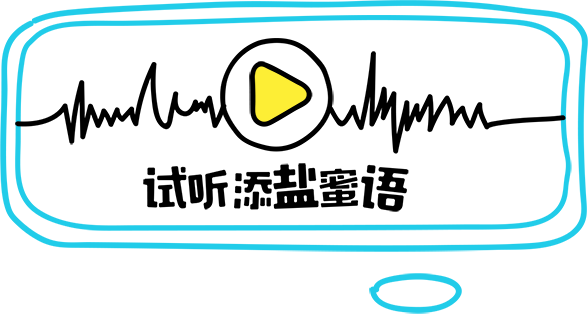
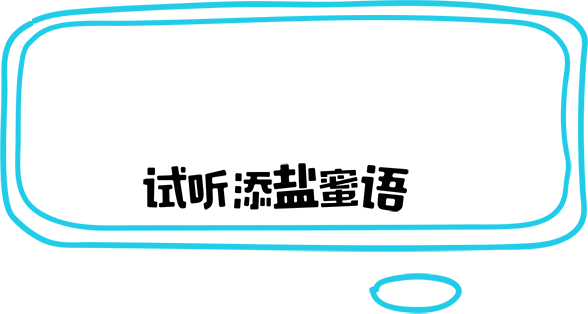
动画更新

Changed region(s): [[0.0306, 0.1146, 0.9796, 0.4873]]

diff --git a/咸柠帮你说情话/style/main.min.css b/咸柠帮你说情话/style/main.min.css
@@ -1,1 +1,1 @@
-html,body,ul,ol,li,dl,dt,dd,p,h1,h2,h3,h4,h5,h6{padding:0;margin:0;}ul,ol{list-style:none;}*{box-sizing:border-box;}img{border:0;}@media screen and (orientation:portrait){.block{display:none;}}@media screen and (orientation:landscape){.block{z-index:9999;position:absolute;top:0;left:0;width:100%;height:100%;background:#333;color:#fff;text-align:center;line-height:100vh;font-size:20vh;}}html,body{width:100%;height:100%;font-family:'Miscrosoft Yahei','微软雅黑';font-size:14px;overflow:hidden;background-color:#fff;}body{background-image:url(../img/main/bg.jpg);background-size:100% auto;background-repeat:no-repeat;}body>.audio{display:none;}.loading{width:100%;height:100%;position:absolute;top:0;left:0;text-align:center;color:#333;line-height:90vh;z-index:99;}.swiper-container{width:100%;height:100%;}.scene01 .s1{width:581px;height:362px;position:absolute;top:207px;left:24px;background-image:url(../img/scene01/info-bg.png);background-repeat:no-repeat;background-size:contain;}.scene01 .s2{width:500px;height:235px;position:absolute;top:288px;left:60px;background-image:url(../img/scene01/info-words.png);background-repeat:no-repeat;background-size:contain;}.scene01 .button{width:426px;height:129px;position:absolute;top:728px;left:99px;background-image:url(../img/scene01/button-next.png);background-repeat:no-repeat;background-size:contain;}.scene01 .s4{width:196px;height:123px;position:absolute;top:588px;left:104px;background-image:url(../img/scene01/bubble-dashan.png);background-repeat:no-repeat;background-size:contain;}.scene01 .s5{position:absolute;width:213px;height:124px;top:588px;right:95px;background-image:url(../img/scene01/bubble-biaobai.png);background-repeat:no-repeat;background-size:contain;}.scene01 .two{position:absolute;width:304px;height:203px;top:108px;right:60px;background-image:url(../img/scene01/two.png);background-repeat:no-repeat;background-size:contain;transform-origin:right top;display:none;}.scene02 .xianqige{width:199px;height:289px;position:absolute;top:427px;left:72px;transform-origin:0 0 0;background-image:url(../img/scene02/xianqige.png);background-repeat:no-repeat;background-size:contain;}.scene02 .mengxiaomei{position:absolute;width:156px;height:234px;top:485px;right:102px;background-image:url(../img/scene02/mengxiaomei.png);background-repeat:no-repeat;background-size:contain;transform-origin:right top;}.scene02 .btn-xianqige{width:258px;height:111px;position:absolute;top:748px;left:53px;background-image:url(../img/scene02/button-boy.png);background-repeat:no-repeat;background-size:contain;}.scene02 .btn-mengxiaomei{position:absolute;width:265px;height:111px;top:748px;right:45px;background-image:url(../img/scene02/button-girl.png);background-repeat:no-repeat;background-size:contain;}.scene02 .s5{width:544px;height:366px;position:absolute;top:125px;left:48px;background-image:url(../img/scene02/info-bg.png);background-repeat:no-repeat;background-size:contain;}.scene02 .s6{width:444px;height:159px;position:absolute;top:179px;left:96px;background-image:url(../img/scene02/info-words.png);background-repeat:no-repeat;background-size:contain;}.scene03 .xianqige{width:232px;height:260px;position:absolute;top:101px;left:64px;background-image:url(../img/scene03/xianqige.png);background-repeat:no-repeat;transform-origin:0 0 0;}.scene03 .xianqige-words{position:absolute;width:301px;height:134px;top:184px;right:59px;background-image:url(../img/scene03/xianqige-words.png);background-repeat:no-repeat;background-size:contain;}.scene03 .mengxiaomei{width:202px;height:234px;position:absolute;top:117px;left:80px;background-image:url(../img/scene03/mengxiaomei.png);background-repeat:no-repeat;transform-origin:0 0 0;}.scene03 .mengxiaomei-words{position:absolute;width:296px;height:139px;top:172px;right:56px;background-image:url(../img/scene03/mengxiaomei-words.png);background-repeat:no-repeat;background-size:contain;}.scene03 .s5{width:534px;height:229px;position:absolute;top:382px;left:50px;background-image:url(../img/scene03/input-bg.png);background-repeat:no-repeat;background-size:contain;padding:18px;}.scene03 .s5 textarea{width:100%;height:100%;text-align:left;border:none;background:none;font-size:16px;line-height:16px;outline:none;}.scene03 .button{width:416px;height:109px;position:absolute;top:749px;left:113px;background-image:url(../img/scene03/button.png);background-repeat:no-repeat;background-size:contain;}.scene03 .mask{width:100%;height:100%;position:absolute;top:0;left:0;z-index:1;background-color:rgba(0,0,0,.8);text-align:center;display:none;}.scene03 .mask .loading{width:244px;height:222px;position:absolute;top:415px;left:200px;background-image:url(../img/scene04/mengxiaomei.png);background-repeat:no-repeat;transform-origin:0 0 0;}.scene04 .audio{width:588px;height:314px;position:absolute;top:123px;left:27px;background-image:url(../img/scene04/audio.png);background-repeat:no-repeat;background-size:contain;}.scene04 .xianqige{width:364px;height:327px;position:absolute;top:381px;left:143px;background-image:url(../img/scene04/xianqige.png);background-repeat:no-repeat;transform-origin:0 0 0;}.scene04 .mengxiaomei{width:244px;height:222px;position:absolute;top:415px;left:200px;background-image:url(../img/scene04/mengxiaomei.png);background-repeat:no-repeat;transform-origin:0 0 0;}.scene04 .btn-retry{width:229px;height:114px;position:absolute;top:742px;left:74px;background-image:url(../img/scene04/button-retry.png);background-repeat:no-repeat;background-size:contain;}.scene04 .btn-share{position:absolute;width:229px;height:114px;top:742px;right:74px;background-image:url(../img/scene04/button-share.png);background-repeat:no-repeat;background-size:contain;}.scene04 .share{width:100%;height:100%;position:absolute;top:0;left:0;z-index:1;background-color:rgba(0,0,0,.8);text-align:center;display:none;}.scene04 .share .share-words{width:266px;height:217px;position:absolute;top:83px;left:68px;background-image:url(../img/scene04/share.png);background-repeat:no-repeat;background-size:contain;}.scene04 .share .two{width:428px;height:303px;position:absolute;top:180px;left:108px;background-image:url(../img/scene04/two.png);background-repeat:no-repeat;background-size:contain;transform-origin:0;}.scene04 .share .light{position:absolute;width:600px;height:600px;top:0;right:0;background-image:url(../img/scene04/light.png);background-repeat:no-repeat;transform-origin:right top;}.scene05 .s1{width:593px;height:440px;position:absolute;top:45px;left:28px;background-image:url(../img/scene05/finished.png);background-repeat:no-repeat;background-size:contain;}.scene05 .xianqige{width:640px;height:308px;position:absolute;top:450px;left:0;background-image:url(../img/scene05/walk.png);background-repeat:no-repeat;background-size:contain;transform-origin:0;display:none;}.scene05 .mengxiaomei{position:absolute;width:156px;height:181px;top:562px;right:72px;background-image:url(../img/scene05/mengxiaomei.png);background-repeat:no-repeat;transform-origin:right top;background-size:contain;}.scene06>div{text-align:center;}.scene06 .s1 img{margin-top:20vh;width:35%;}.scene06 .s2 img{margin-top:5vh;width:80%;}.scene06 .s3 img{margin-top:5vh;width:40%;}
+html,body,ul,ol,li,dl,dt,dd,p,h1,h2,h3,h4,h5,h6{padding:0;margin:0;}ul,ol{list-style:none;}*{box-sizing:border-box;}img{border:0;}@media screen and (orientation:portrait){.block{display:none;}}@media screen and (orientation:landscape){.block{z-index:9999;position:absolute;top:0;left:0;width:100%;height:100%;background:#333;color:#fff;text-align:center;line-height:100vh;font-size:20vh;}}html,body{width:100%;height:100%;font-family:'Miscrosoft Yahei','微软雅黑';font-size:14px;overflow:hidden;background-color:#fff;}body{background-image:url(../img/main/bg.jpg);background-size:100% auto;background-repeat:no-repeat;}body>.audio{display:none;}.loading{width:100%;height:100%;position:absolute;top:0;left:0;text-align:center;color:#333;line-height:90vh;z-index:99;}.swiper-container{width:100%;height:100%;}.scene01 .s1{width:581px;height:362px;position:absolute;top:207px;left:24px;background-image:url(../img/scene01/info-bg.png);background-repeat:no-repeat;background-size:contain;}.scene01 .s2{width:500px;height:235px;position:absolute;top:288px;left:60px;background-image:url(../img/scene01/info-words.png);background-repeat:no-repeat;background-size:contain;}.scene01 .button{width:426px;height:129px;position:absolute;top:728px;left:99px;background-image:url(../img/scene01/button-next.png);background-repeat:no-repeat;background-size:contain;}.scene01 .s4{width:196px;height:123px;position:absolute;top:588px;left:104px;background-image:url(../img/scene01/bubble-dashan.png);background-repeat:no-repeat;background-size:contain;}.scene01 .s5{position:absolute;width:213px;height:124px;top:588px;right:95px;background-image:url(../img/scene01/bubble-biaobai.png);background-repeat:no-repeat;background-size:contain;}.scene01 .two{position:absolute;width:304px;height:203px;top:108px;right:60px;background-image:url(../img/scene01/two.png);background-repeat:no-repeat;background-size:contain;transform-origin:right top;display:none;}.scene02 .xianqige{width:199px;height:289px;position:absolute;top:427px;left:72px;transform-origin:0 0 0;background-image:url(../img/scene02/xianqige.png);background-repeat:no-repeat;background-size:contain;}.scene02 .mengxiaomei{position:absolute;width:156px;height:234px;top:485px;right:102px;background-image:url(../img/scene02/mengxiaomei.png);background-repeat:no-repeat;background-size:contain;transform-origin:right top;}.scene02 .btn-xianqige{width:258px;height:111px;position:absolute;top:748px;left:53px;background-image:url(../img/scene02/button-boy.png);background-repeat:no-repeat;background-size:contain;}.scene02 .btn-mengxiaomei{position:absolute;width:265px;height:111px;top:748px;right:45px;background-image:url(../img/scene02/button-girl.png);background-repeat:no-repeat;background-size:contain;}.scene02 .s5{width:544px;height:366px;position:absolute;top:125px;left:48px;background-image:url(../img/scene02/info-bg.png);background-repeat:no-repeat;background-size:contain;}.scene02 .s6{width:444px;height:159px;position:absolute;top:179px;left:96px;background-image:url(../img/scene02/info-words.png);background-repeat:no-repeat;background-size:contain;}.scene03 .xianqige{width:232px;height:260px;position:absolute;top:101px;left:64px;background-image:url(../img/scene03/xianqige.png);background-repeat:no-repeat;transform-origin:0 0 0;}.scene03 .xianqige-words{position:absolute;width:301px;height:134px;top:184px;right:59px;background-image:url(../img/scene03/xianqige-words.png);background-repeat:no-repeat;background-size:contain;}.scene03 .mengxiaomei{width:202px;height:234px;position:absolute;top:117px;left:80px;background-image:url(../img/scene03/mengxiaomei.png);background-repeat:no-repeat;transform-origin:0 0 0;}.scene03 .mengxiaomei-words{position:absolute;width:296px;height:139px;top:172px;right:56px;background-image:url(../img/scene03/mengxiaomei-words.png);background-repeat:no-repeat;background-size:contain;}.scene03 .s5{width:534px;height:229px;position:absolute;top:382px;left:50px;background-image:url(../img/scene03/input-bg.png);background-repeat:no-repeat;background-size:contain;padding:18px;}.scene03 .s5 textarea{width:100%;height:100%;text-align:left;border:none;background:none;font-size:16px;line-height:16px;outline:none;}.scene03 .button{width:416px;height:109px;position:absolute;top:749px;left:113px;background-image:url(../img/scene03/button.png);background-repeat:no-repeat;background-size:contain;}.scene03 .mask{width:100%;height:100%;position:absolute;top:0;left:0;z-index:1;background-color:rgba(0,0,0,.8);text-align:center;display:none;}.scene03 .mask .voice-loading{width:526px;height:467px;position:absolute;top:20vh;left:50px;background-image:url(../img/scene03/loading.png);background-repeat:no-repeat;transform-origin:0 0 0;}.scene04 .audio-words{width:588px;height:314px;position:absolute;top:123px;left:27px;background-image:url(../img/scene04/audio.png);background-repeat:no-repeat;background-size:contain;}.scene04 .audio-sound{width:538px;height:115px;position:absolute;top:160px;left:44px;background-image:url(../img/scene04/audio-sound.png);background-repeat:no-repeat;transform-origin:0 0 0;}.scene04 .audio-button-play{width:100px;height:100px;position:absolute;top:166px;left:248px;background-image:url(../img/scene04/play.png);background-repeat:no-repeat;background-size:cover;}.scene04 .audio-button-pause{width:100px;height:100px;position:absolute;top:166px;left:248px;background-image:url(../img/scene04/pause.png);background-repeat:no-repeat;background-size:cover;}.scene04 .xianqige{width:364px;height:327px;position:absolute;top:381px;left:143px;background-image:url(../img/scene04/xianqige.png);background-repeat:no-repeat;transform-origin:0 0 0;}.scene04 .mengxiaomei{width:244px;height:222px;position:absolute;top:415px;left:200px;background-image:url(../img/scene04/mengxiaomei.png);background-repeat:no-repeat;transform-origin:0 0 0;}.scene04 .btn-retry{width:229px;height:114px;position:absolute;top:742px;left:74px;background-image:url(../img/scene04/button-retry.png);background-repeat:no-repeat;background-size:contain;}.scene04 .btn-share{position:absolute;width:229px;height:114px;top:742px;right:74px;background-image:url(../img/scene04/button-share.png);background-repeat:no-repeat;background-size:contain;}.scene04 .share{width:100%;height:100%;position:absolute;top:0;left:0;z-index:1;background-color:rgba(0,0,0,.8);text-align:center;display:none;}.scene04 .share .share-words{width:266px;height:217px;position:absolute;top:83px;left:68px;background-image:url(../img/scene04/share.png);background-repeat:no-repeat;background-size:contain;}.scene04 .share .two{width:428px;height:303px;position:absolute;top:180px;left:108px;background-image:url(../img/scene04/two.png);background-repeat:no-repeat;background-size:contain;transform-origin:0;}.scene04 .share .light{position:absolute;width:600px;height:600px;top:0;right:0;background-image:url(../img/scene04/light.png);background-repeat:no-repeat;transform-origin:right top;}.scene05 .s1{width:593px;height:440px;position:absolute;top:45px;left:28px;background-image:url(../img/scene05/finished.png);background-repeat:no-repeat;background-size:contain;}.scene05 .xianqige{width:640px;height:308px;position:absolute;top:450px;left:0;background-image:url(../img/scene05/walk.png);background-repeat:no-repeat;background-size:contain;transform-origin:0;display:none;}.scene05 .mengxiaomei{position:absolute;width:156px;height:181px;top:562px;right:72px;background-image:url(../img/scene05/mengxiaomei.png);background-repeat:no-repeat;transform-origin:right top;background-size:contain;}.scene06>div{text-align:center;}.scene06 .s1 img{margin-top:20vh;width:35%;}.scene06 .s2 img{margin-top:5vh;width:80%;}.scene06 .s3 img{margin-top:5vh;width:40%;}

diff --git a/咸柠帮你说情话/js/lib/script.js b/咸柠帮你说情话/js/lib/script.js
@@ -123,13 +123,15 @@ define(['jquery', 'swiper', 'weixin', 'frameplayer', 'createjs'], function ($, s
                 }, 100)
                 console.log('初始化完成')
             },
-            onSlideChangeEnd: function (swiper) {
+            onTransitionEnd: function (swiper) {
+                console.log('动画')
                 swiperAnimate(swiper); //每个slide切换结束时也运行当前slide动画
             }
         });
     }
 
     self.man = true;
+    self.playing = false;
 
     self.scene = {
 
@@ -240,6 +242,7 @@ define(['jquery', 'swiper', 'weixin', 'frameplayer', 'createjs'], function ($, s
             close: function () {
                 $('.scene03 .mask').hide();
                 clearInterval(self.scene.s03.movie.timer[0]);
+                clearInterval(self.scene.s03.movie.timer[1]);
                 self.scene.s04.open();
             },
 
@@ -249,6 +252,7 @@ define(['jquery', 'swiper', 'weixin', 'frameplayer', 'createjs'], function ($, s
                     if ($('.scene03 textarea').val() == '') { return; }
 
                     $('.scene03 .mask').show();
+                    self.scene.s03.movie.loading();
 
                     if (self.man) {
                         $('.scene04 .mengxiaomei').hide();
@@ -317,7 +321,7 @@ define(['jquery', 'swiper', 'weixin', 'frameplayer', 'createjs'], function ($, s
             },
 
             movie: {
-                timer: [null],
+                timer: [null, null],
                 play: function () {
                     if (self.man) {
                         self.scene.s03.movie.xianqige();
@@ -347,6 +351,18 @@ define(['jquery', 'swiper', 'weixin', 'frameplayer', 'createjs'], function ($, s
                         width: 202,
                         height: 234
                     });
+                },
+
+                loading: function () {
+                    self.scene.s03.movie.timer[1] = frameplayer({
+                        target: $(".scene03 .voice-loading"),
+                        total: 3,
+                        row: 1,
+                        loop: true,
+                        fps: 3,
+                        width: 526,
+                        height: 467
+                    });
                 }
             }
         },
@@ -362,6 +378,7 @@ define(['jquery', 'swiper', 'weixin', 'frameplayer', 'createjs'], function ($, s
                 clearInterval(self.scene.s04.movie.timer[0]);
                 clearInterval(self.scene.s04.movie.timer[1]);
                 clearInterval(self.scene.s04.movie.timer[2]);
+                clearInterval(self.scene.s04.movie.timer[3]);
                 self.scene.s05.open();
             },
 
@@ -377,11 +394,21 @@ define(['jquery', 'swiper', 'weixin', 'frameplayer', 'createjs'], function ($, s
                     self.scene.s02.open();
                 });
 
-                $('.scene04 .audio').hammer().on("tap", function (e) {
+                $('.scene04 .audio-button').hammer().on("tap", function (e) {
+
+                    if (self.playing) { return }
                     //console.log('播放声音')
-                    //alert('播放')
+
+                    self.playing = true;
+
                     //$('audio')[0].play();
-                    createjs.Sound.play("myaudio", { loop: 0 });
+                    $('.scene04 .audio-button').removeClass('audio-button-play').addClass('audio-button-pause');
+                    var cc = createjs.Sound.play("myaudio", { loop: 0 });
+
+                    cc.on("complete", function () {
+                        $('.scene04 .audio-button').removeClass('audio-button-pause').addClass('audio-button-play');
+                        self.playing = false;
+                    }, this);
                 });
 
                 $('.btn-share').hammer().on("tap", function (e) {
@@ -401,8 +428,10 @@ define(['jquery', 'swiper', 'weixin', 'frameplayer', 'createjs'], function ($, s
             },
 
             movie: {
-                timer: [null, null, null],
+                timer: [null, null, null, null],
                 play: function () {
+                    self.scene.s04.movie.sound();
+
                     if (self.man) {
                         self.scene.s04.movie.xianqige();
                     }
@@ -430,6 +459,17 @@ define(['jquery', 'swiper', 'weixin', 'frameplayer', 'createjs'], function ($, s
                         fps: 3,
                         width: 244,
                         height: 222
+                    });
+                },
+                sound: function () {
+                    self.scene.s04.movie.timer[3] = frameplayer({
+                        target: $(".scene04 .audio-sound"),
+                        total: 2,
+                        row: 1,
+                        loop: true,
+                        fps: 3,
+                        width: 538,
+                        height: 115
                     });
                 },
                 light: function () {
@@ -610,10 +650,12 @@ define(['jquery', 'swiper', 'weixin', 'frameplayer', 'createjs'], function ($, s
                         <div class="mengxiaomei-words jsfix" data-mode="top-right"></div>\
                         <div class="s5 jsfix"><textarea placeholder="请输入文字"></textarea></div>\
                         <div class="button jsfix"></div>\
-                        <div class="mask"><div class="loading"></div></div>\
+                        <div class="mask"><div class="voice-loading jsfix" data-movie="yes"></div></div>\
                     </div>\
                     <div class="swiper-slide scene04">\
-                        <div class="audio jsfix"></div>\
+                        <div class="audio-words jsfix"></div>\
+                        <div class="audio-sound jsfix" data-movie="yes"></div>\
+                        <div class="audio-button-play audio-button jsfix"></div>\
                         <div class="xianqige jsfix" data-movie="yes"></div>\
                         <div class="mengxiaomei jsfix" data-movie="yes"></div>\
                         <div class="btn-retry jsfix"></div>\

diff --git a/咸柠帮你说情话/style/main.css b/咸柠帮你说情话/style/main.css
@@ -286,17 +286,17 @@ body > .audio {
   text-align: center;
   display: none;
 }
-.scene03 .mask .loading {
-  width: 244px;
-  height: 222px;
+.scene03 .mask .voice-loading {
+  width: 526px;
+  height: 467px;
   position: absolute;
-  top: 415px;
-  left: 200px;
-  background-image: url(../img/scene04/mengxiaomei.png);
+  top: 20vh;
+  left: 50px;
+  background-image: url(../img/scene03/loading.png);
   background-repeat: no-repeat;
   transform-origin: 0px 0px 0px;
 }
-.scene04 .audio {
+.scene04 .audio-words {
   width: 588px;
   height: 314px;
   position: absolute;
@@ -305,6 +305,36 @@ body > .audio {
   background-image: url(../img/scene04/audio.png);
   background-repeat: no-repeat;
   background-size: contain;
+}
+.scene04 .audio-sound {
+  width: 538px;
+  height: 115px;
+  position: absolute;
+  top: 160px;
+  left: 44px;
+  background-image: url(../img/scene04/audio-sound.png);
+  background-repeat: no-repeat;
+  transform-origin: 0px 0px 0px;
+}
+.scene04 .audio-button-play {
+  width: 100px;
+  height: 100px;
+  position: absolute;
+  top: 166px;
+  left: 248px;
+  background-image: url(../img/scene04/play.png);
+  background-repeat: no-repeat;
+  background-size: cover;
+}
+.scene04 .audio-button-pause {
+  width: 100px;
+  height: 100px;
+  position: absolute;
+  top: 166px;
+  left: 248px;
+  background-image: url(../img/scene04/pause.png);
+  background-repeat: no-repeat;
+  background-size: cover;
 }
 .scene04 .xianqige {
   width: 364px;

diff --git a/咸柠帮你说情话/style/main.less b/咸柠帮你说情话/style/main.less
@@ -251,9 +251,9 @@ body {
         text-align:center;
         display:none;
 
-        .loading {
-            .absolute-box(244px, 222px, 415px, 200px);
-            background-image:url(../img/scene04/mengxiaomei.png);
+        .voice-loading {
+            .absolute-box(526px, 467px, 20vh, 50px);
+            background-image:url(../img/scene03/loading.png);
             background-repeat:no-repeat;
             transform-origin: 0px 0px 0px;
         }
@@ -262,11 +262,32 @@ body {
 
 .scene04 {
 
-    .audio {
+    .audio-words {
         .absolute-box(588px, 314px, 123px, 27px);
         background-image:url(../img/scene04/audio.png);
         background-repeat:no-repeat;
         background-size:contain;
+    }
+
+    .audio-sound {
+        .absolute-box(538px, 115px, 160px, 44px);
+        background-image:url(../img/scene04/audio-sound.png);
+        background-repeat:no-repeat;
+        transform-origin: 0px 0px 0px;
+    }
+
+    .audio-button-play {
+        .absolute-box(100px, 100px, 166px, 248px);
+        background-image:url(../img/scene04/play.png);
+        background-repeat:no-repeat;
+        background-size:cover;
+    }
+
+    .audio-button-pause {
+        .absolute-box(100px, 100px, 166px, 248px);
+        background-image:url(../img/scene04/pause.png);
+        background-repeat:no-repeat;
+        background-size:cover;
     }
 
     .xianqige {
